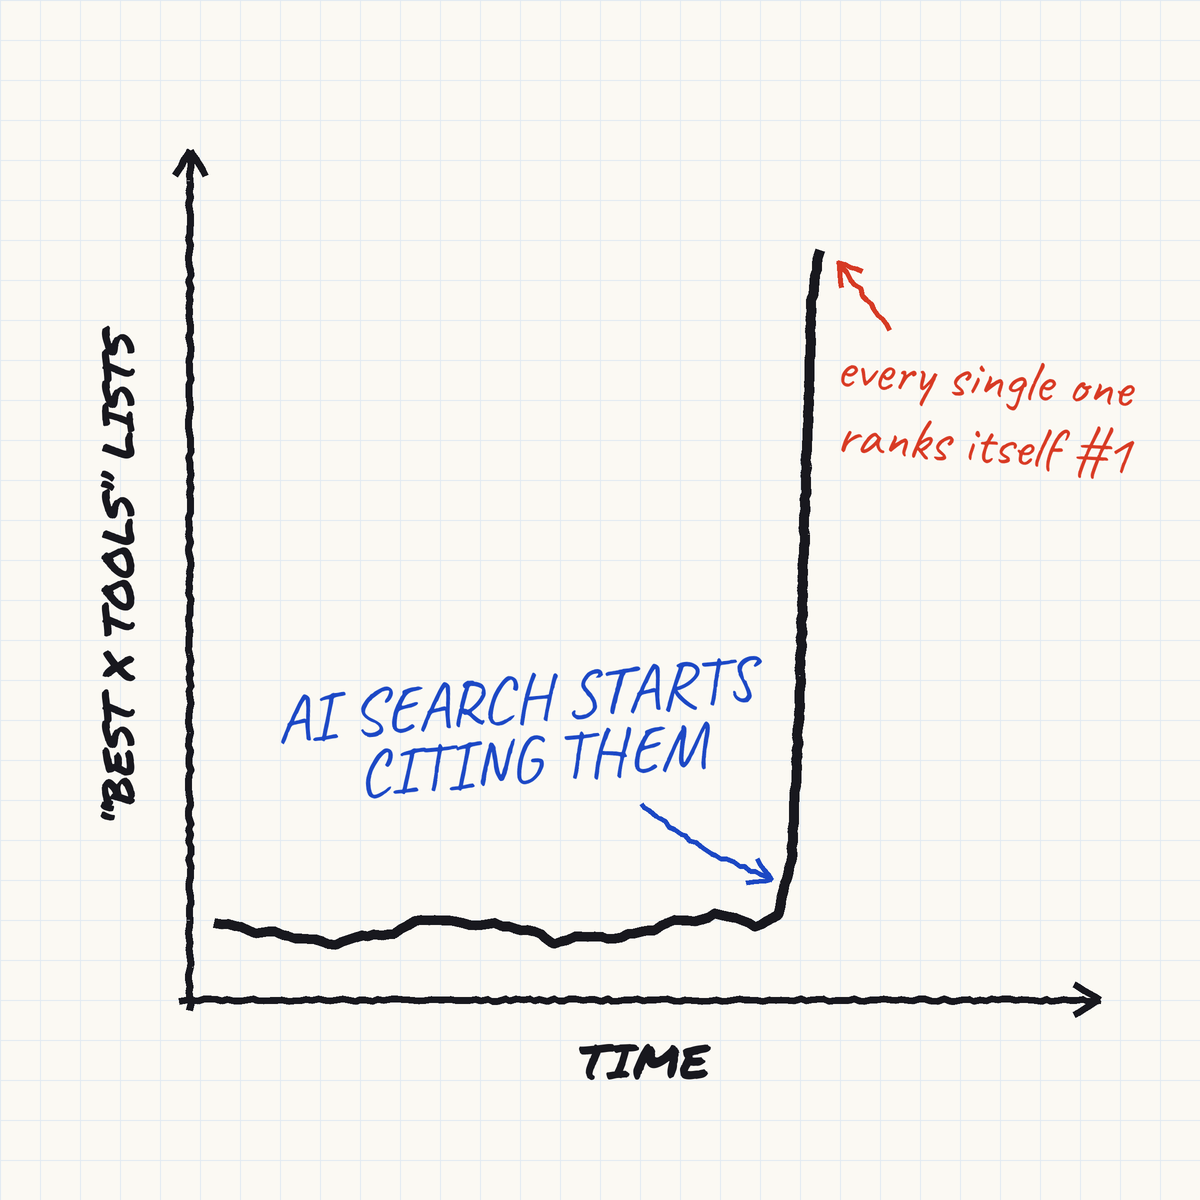
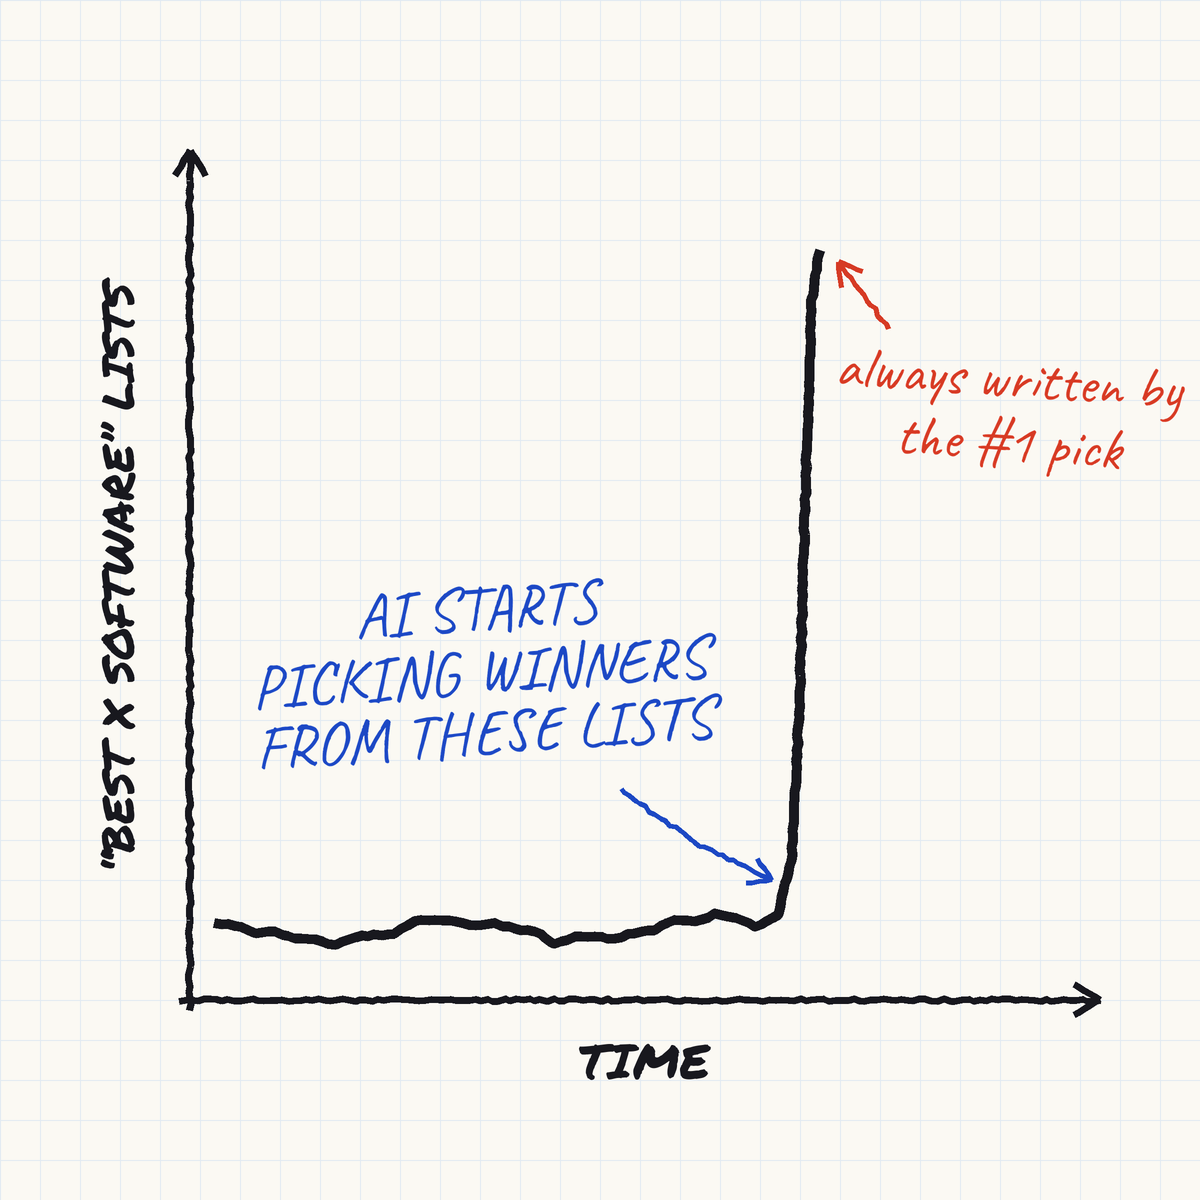
Clearer labels on listicles joke chart
Claude-Session: https://claude.ai/code/session_015eiBRGpC2hMXjiGLbSaNCy

diff --git a/tools/joke_chart.py b/tools/joke_chart.py
@@ -45,7 +45,7 @@ def text(xy, s, font, fill=INK, angle=0):
 ox, oy, top, right = 190, 1000, 150, 1100
 line([(ox, oy + 10), (ox, top)], w=7); arrowhead((ox, top), (ox, top + 50), INK, 7, 30)
 line([(ox - 10, oy), (right, oy)], w=7); arrowhead((right, oy), (right - 50, oy), INK, 7, 30)
-text((118, (oy + top) / 2), "“BEST X TOOLS” LISTS", F(MARK, 44), angle=90)
+text((118, (oy + top) / 2), "“BEST X SOFTWARE” LISTS", F(MARK, 44), angle=90)
 text(((ox + right) / 2, 1062), "TIME", F(MARK, 48))
 
 # data: boring flat years, then straight up
@@ -56,14 +56,15 @@ pts += [(778, 915), (792, 860), (800, 700), (806, 480), (812, 300), (820, 250)]
 line(pts, w=10, amp=1.0)
 
 # annotation: the trigger
-text((520, 700), "AI SEARCH STARTS", F(CAV, 66), BLUE, 5)
-text((535, 760), "CITING THEM", F(CAV, 66), BLUE, 5)
-line([(640, 805), (705, 850), (772, 880)], BLUE, 5)
+text((480, 610), "AI STARTS", F(CAV, 62), BLUE, 4)
+text((485, 672), "PICKING WINNERS", F(CAV, 62), BLUE, 4)
+text((490, 734), "FROM THESE LISTS", F(CAV, 62), BLUE, 4)
+line([(620, 790), (700, 845), (772, 880)], BLUE, 5)
 arrowhead((772, 880), (705, 850), BLUE)
 
 # annotation: the punchline
-text((985, 385), "every single one", F(CAV, 58), RED, -4)
-text((985, 445), "ranks itself #1", F(CAV, 58), RED, -4)
+text((1010, 385), "always written by", F(CAV, 58), RED, -4)
+text((1010, 445), "the #1 pick", F(CAV, 58), RED, -4)
 line([(890, 330), (860, 290), (838, 262)], RED, 5)
 arrowhead((838, 262), (860, 290), RED)
 
